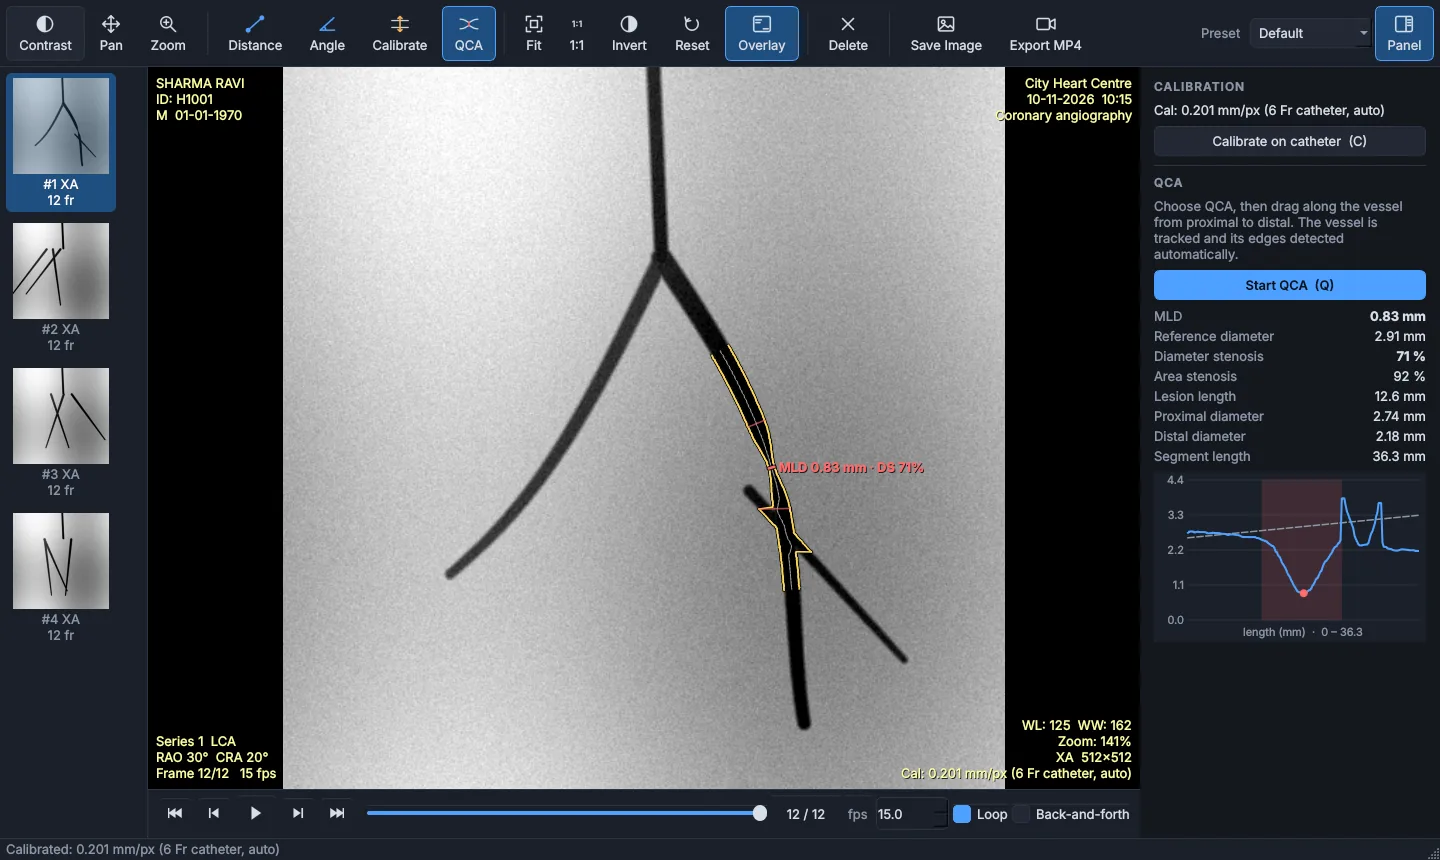
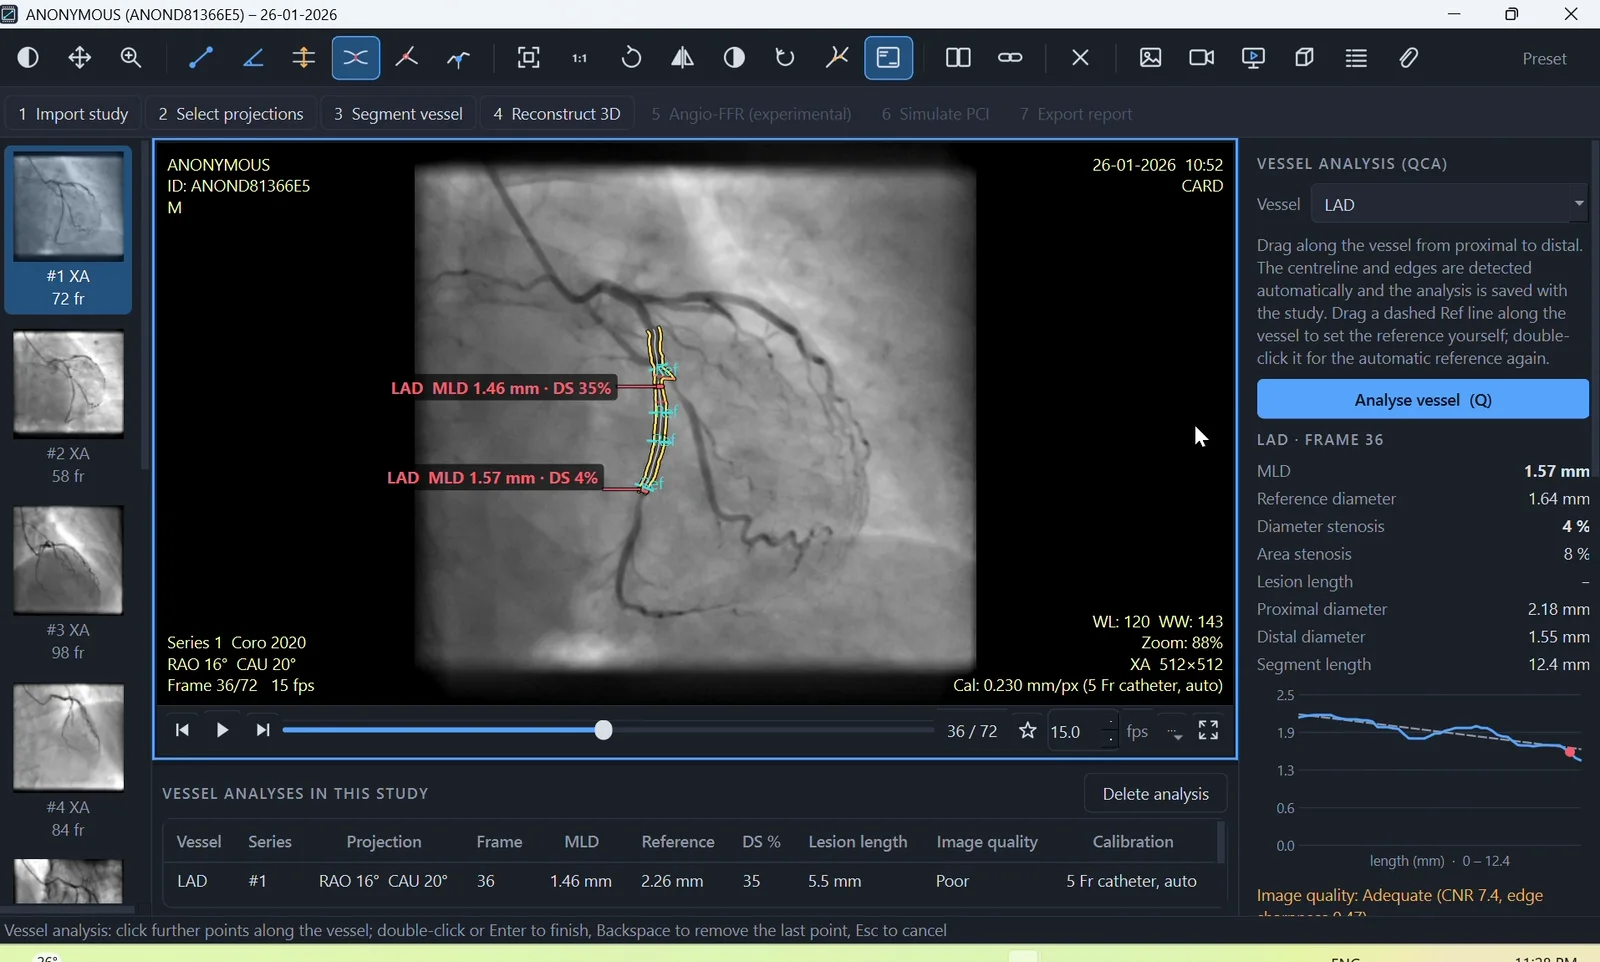
Update screenshots with the current app from the demo video (#1)
Replace the hero, patient library and viewer images with anonymised
captures of the current interface, use the 3D reconstruction in the
research section, and add QCA editing, two-view QCA, calibration,
export, Runs to PPT, case types and backup to the gallery.

Claude-Session: https://claude.ai/code/session_019udV8Nycy1TiA7zJe62M9q

diff --git a/index.html b/index.html
@@ -44,7 +44,7 @@
       <p class="fine">Windows 10 / 11, 64-bit. Demo: up to 15 cases, no key needed.</p>
     </div>
     <figure class="hero-shot">
-      <img src="images/viewer-qca.webp" width="1440" height="860" alt="Viewer showing a coronary run with a QCA analysis: minimum lumen diameter, reference diameter, percent stenosis and a diameter graph.">
+      <img src="images/viewer-qca.webp" width="1600" height="962" alt="Viewer showing a coronary run with a QCA analysis: minimum lumen diameter, reference diameter, percent stenosis and a diameter graph.">
     </figure>
   </div>
 </section>
@@ -103,7 +103,7 @@
       <span class="tag">Full and CathOS editions</span>
     </div>
     <figure class="shot">
-      <img src="images/viewer-cine.webp" width="1280" height="820" loading="lazy" alt="Cath-lab workstation layout with run thumbnails, the image in the centre and the analysis panel on the right.">
+      <img src="images/reconstruction-3d.webp" width="1600" height="962" loading="lazy" alt="Experimental two-view 3D reconstruction of a coronary segment, colour-coded by diameter, with the quality checks listed alongside.">
     </figure>
   </div>
 </section>
@@ -132,14 +132,23 @@
   <div class="wrap">
     <h2>Screenshots</h2>
     <div class="gallery">
-      <figure><a href="images/patient-library.webp"><img src="images/patient-library.webp" width="1280" height="760" loading="lazy" alt="Patient library with patients, studies and series lists."></a><figcaption>Patient library</figcaption></figure>
-      <figure><a href="images/viewer-qca.webp"><img src="images/viewer-qca.webp" width="1440" height="860" loading="lazy" alt="QCA result on a coronary segment."></a><figcaption>QCA with diameter graph</figcaption></figure>
+      <figure><a href="images/patient-library.webp"><img src="images/patient-library.webp" width="1600" height="962" loading="lazy" alt="Patient library with patients, studies and series lists, and the import buttons along the top."></a><figcaption>Patient library</figcaption></figure>
+      <figure><a href="images/viewer-cine.webp"><img src="images/viewer-cine.webp" width="1600" height="962" loading="lazy" alt="Viewer with run thumbnails on the left, a zoomed coronary run in the centre and the analysis panel on the right."></a><figcaption>Viewer: cine, zoom and window/level</figcaption></figure>
+      <figure><a href="images/viewer-qca.webp"><img src="images/viewer-qca.webp" width="1600" height="962" loading="lazy" alt="QCA result on a coronary segment."></a><figcaption>QCA with diameter graph</figcaption></figure>
+      <figure><a href="images/qca-edge-edit.webp"><img src="images/qca-edge-edit.webp" width="1600" height="962" loading="lazy" alt="Magnified view of detected vessel edges being edited by hand."></a><figcaption>QCA edge editing, magnified</figcaption></figure>
+      <figure><a href="images/qca-two-views.webp"><img src="images/qca-two-views.webp" width="1600" height="962" loading="lazy" alt="Two projections side by side with the same segment analysed in both."></a><figcaption>Two projections side by side</figcaption></figure>
+      <figure><a href="images/reconstruction-3d.webp"><img src="images/reconstruction-3d.webp" width="1600" height="962" loading="lazy" alt="Experimental 3D reconstruction of a coronary segment."></a><figcaption>3D reconstruction (research)</figcaption></figure>
+      <figure><a href="images/calibration.webp"><img src="images/calibration.webp" width="1280" height="800" loading="lazy" alt="Catheter calibration dialog with the detected catheter width and French size."></a><figcaption>Catheter calibration</figcaption></figure>
       <figure><a href="images/measurements.webp"><img src="images/measurements.webp" width="1280" height="820" loading="lazy" alt="Distance and angle measurements on an angiogram."></a><figcaption>Measurements</figcaption></figure>
+      <figure><a href="images/export-case.webp"><img src="images/export-case.webp" width="1198" height="748" loading="lazy" alt="Export case dialog with DICOM, MP4 and anonymise options."></a><figcaption>Export case, with anonymise</figcaption></figure>
+      <figure><a href="images/runs-to-ppt.webp"><img src="images/runs-to-ppt.webp" width="1200" height="750" loading="lazy" alt="Export runs to MP4 or PowerPoint dialog with runs ticked."></a><figcaption>Runs to PowerPoint or MP4</figcaption></figure>
+      <figure><a href="images/case-types.webp"><img src="images/case-types.webp" width="896" height="560" loading="lazy" alt="Case type dialog with bifurcation, DCB and a custom TAVI type ticked."></a><figcaption>Case types, including your own</figcaption></figure>
+      <figure><a href="images/backup.webp"><img src="images/backup.webp" width="1200" height="750" loading="lazy" alt="Backup dialog for copying the library to another drive."></a><figcaption>Backup</figcaption></figure>
       <figure><a href="images/cathos-dashboard.webp"><img src="images/cathos-dashboard.webp" width="1360" height="860" loading="lazy" alt="CathOS dashboard."></a><figcaption>CathOS dashboard</figcaption></figure>
       <figure><a href="images/cathos-devices.webp"><img src="images/cathos-devices.webp" width="1360" height="900" loading="lazy" alt="CathOS device library."></a><figcaption>CathOS device library</figcaption></figure>
       <figure><a href="images/cathos-report.webp"><img src="images/cathos-report.webp" width="1600" height="894" loading="lazy" alt="CathOS report with PDF download and print."></a><figcaption>CathOS report, PDF and print</figcaption></figure>
     </div>
-    <p class="fine center">Screenshots show synthetic test patients.</p>
+    <p class="fine center">Screenshots show anonymised demo cases and synthetic test patients.</p>
   </div>
 </section>
 
